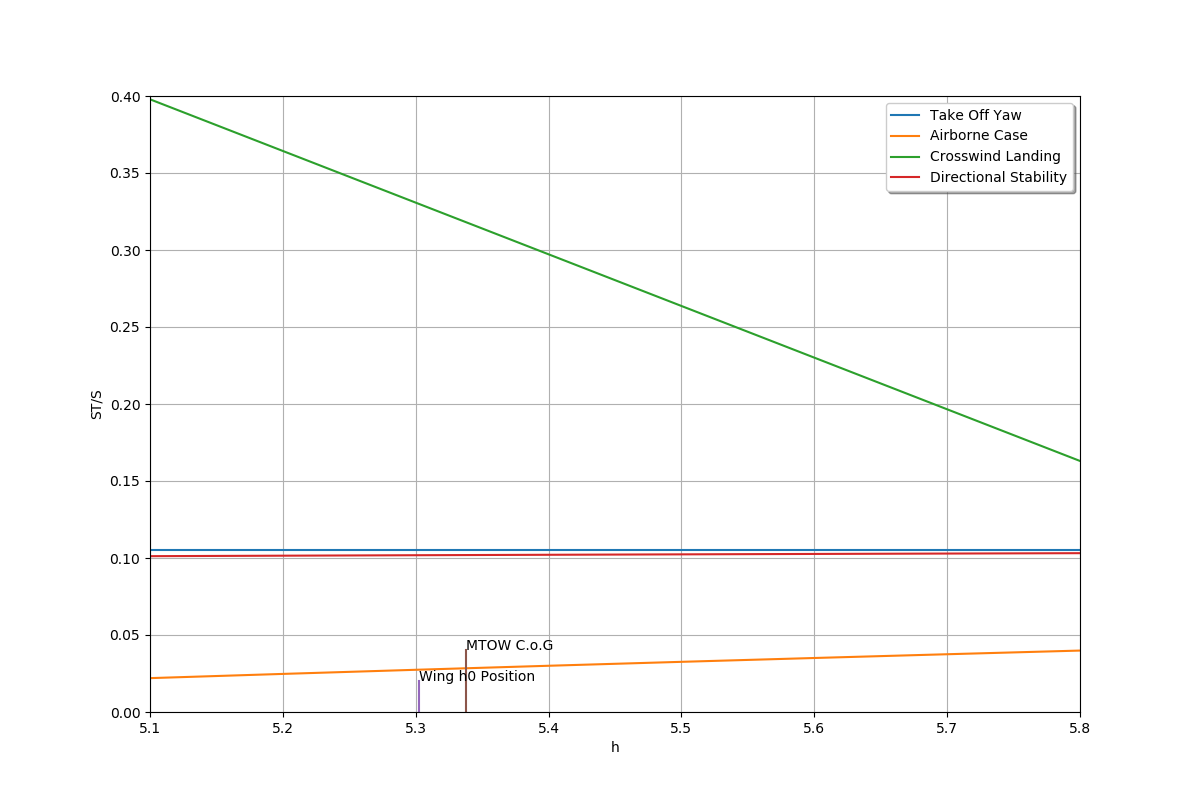
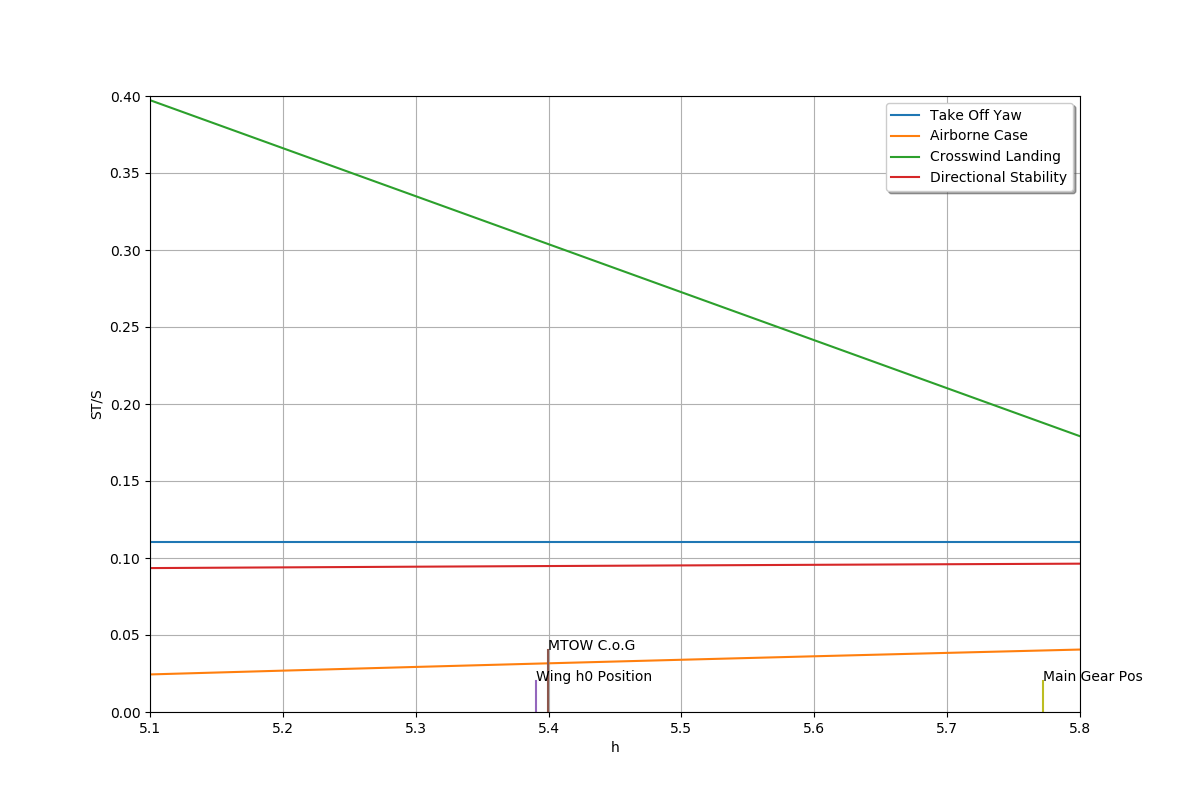
Update with new ranges and parameters

diff --git a/scissorplot.py b/scissorplot.py
@@ -54,7 +54,7 @@ def myfloor(x, base):
 # Key Aircraft Params
 c_bar = cad_file['Interface']['B53'].value
 maxthrust = cad_file['Interface']['F28'].value * 2  # N @ takoff
-vto = 62.4  # m/s
+vto = 58.3  # m/s
 cthrust = maxthrust / qS(vto)
 cm0 = cad_file['Interface']['F29'].value
 cl_to = cad_file['Interface']['F30'].value
@@ -297,4 +297,4 @@ def plotit(r1, r2, search_mac):
     plt.show()
 
 
-plotit(4.8, 6.25, [0.05, 0.39])
+plotit(4.8, 6.25, [0.07, 0.41])
